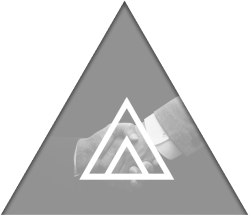
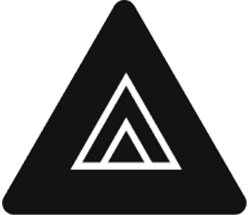
23-03-2023

diff --git a/sections/section3.jsx b/sections/section3.jsx
@@ -4,10 +4,10 @@ import Image from 'next/image';
 import { motion } from 'framer-motion';
 import { fadeIn, staggerContainer } from '../utils/motion';
 
-import section3_Origin from '../assets/section3/section3_Origin.png';
-import section3_Origin2 from '../assets/section3/section3_Origin2.png';
 import { exploreSlide } from '@/constants';
 import { FaChevronLeft, FaChevronRight } from 'react-icons/fa';
+
+import bg_slide from '../public/bg_slide.png';
 
 function section3() {
   const [slideNumber, setSlideNumber] = useState(0);
@@ -44,41 +44,38 @@ function section3() {
         initial="hidden"
         whileInView="show"
         viewport={{ once: false, amount: 0.25 }}
-        className="container mx-auto h-full w-full py-24 px-8 overflow-hidden"
+        className="container mx-auto h-full w-full py-24 px-8 overflow-hidden relative"
       >
         {/*       left side title img */}
-        <div className="w-full h-full top-0 flex flex-col xl:flex-row xl:justify-start xl:items-end justify-start items-center border-2">
-          {/* <motion.div
-            variants={fadeIn('right', 'tween', 0.1, 0.5)}
-            className="hidden xl:block  flex-initial lg:order-1"
-          >
-            <Image
-              src={section3_Origin}
-              alt=""
-              priority
-              quality={70}
-              className="w-[0%] xl:w-[80%] 2xl:w-[100%]"
-            />
-          </motion.div>
-          <div className="block xl:hidden  flex-initial lg:order-first py-4">
-            <Image
-              src={section3_Origin2}
-              alt=""
-              quality={70}
-              className="w-[212px] md:w-[325px] lg:w-[500px]"
-            />
-          </div> */}
-
+        <div className="w-full h-full top-0 flex justify-between items-start  ">
+          <div className="mt-24">
+            <button onClick={handleSlideLeft}>
+              <FaChevronLeft className="w-[25px] h-[25px] lg:w-[40px] lg:h-[40px] text-white" />
+            </button>
+          </div>
           <motion.div
             variants={fadeIn('up', 'tween', 0.1, 0.5)}
-            className=" text-white order-last md:p-8 w-full xl:w-1/2 h-4/6"
+            className=" text-white w-[600px]  self-end"
           >
-            <div className=" flex flex-row w-full h-full justify-center items-center">
-              <div className="  md:m-2 md:p-2">
-                <button onClick={handleSlideLeft}>
-                  <FaChevronLeft className="w-[25px] h-[25px] lg:w-[40px] lg:h-[40px] text-gray-600" />
-                </button>
-              </div>
+            <Image
+              // src={bg_section3_01}
+              src={exploreSlide[slideNumber].imgUrl}
+              width="600"
+              height="800"
+              alt=""
+              quality={70}
+              className=" h-auto w-screen overflow-hidden"
+              priority
+            />
+          </motion.div>
+          <div className="mt-24">
+            <button onClick={handleSlideRight}>
+              <FaChevronRight className="w-[25px] h-[25px] lg:w-[40px] lg:h-[40px] text-white" />
+            </button>
+          </div>
+        </div>
+
+        {/* <div className=" flex flex-row w-full h-full justify-center items-center border-2">
               <div>
                 <h3 className="text-center xl:text-left font-bold text-lg md:text-2xl xl:text-4xl mb-2 lg:mb-6 leading-6 md:leading-10 font-syncopate">
                   {exploreSlide[slideNumber].title}
@@ -88,30 +85,21 @@ function section3() {
                   {exploreSlide[slideNumber].text}
                 </p>
               </div>
-              <div className=" md:m-2 md:p-2">
-                <button onClick={handleSlideRight}>
-                  <FaChevronRight className="w-[25px] h-[25px] lg:w-[40px] lg:h-[40px] text-gray-600" />
-                </button>
-              </div>
-            </div>
-          </motion.div>
-        </div>
+            </div> */}
         {/* end of left side title img */}
-        <motion.div
-          variants={fadeIn('left', 'tween', 0.1, 0.5)}
-          className="absolute -z-10 right-0 bottom-0"
-        >
-          <Image
-            // src={bg_section3_01}
-            src={exploreSlide[slideNumber].imgUrl}
-            width="1920"
-            height="1080"
-            alt=""
-            quality={70}
-            className=" h-auto w-screen overflow-hidden"
-            priority
-          />
-        </motion.div>
+
+        <div className="-z-10  h-full w-full absolute bottom-0 inset-x-0 bg-[url('/bg_slide.png')] bg-no-repeat bg-contain bg-bottom"></div>
+
+        <div className="absolute bottom-0 inset-x-0 mb-48 ml-20 w-[800px]">
+          <div className="text-white flex-row w-full">
+            <p className="font-thin text-base text-justify font-raleway whitespace-pre-line leading-tight w-1/2 ">
+              {exploreSlide[slideNumber].text}
+            </p>
+            <h3 className="mt-8 text-center xl:text-left font-bold text-lg md:text-2xl xl:text-4xl leading-6 md:leading-10 font-syncopate">
+              {exploreSlide[slideNumber].title}
+            </h3>
+          </div>
+        </div>
       </motion.div>
 
       {/*  end of the container part */}

diff --git a/sections/section9.jsx b/sections/section9.jsx
@@ -1,79 +1,34 @@
 'use client';
-import React, { useState } from 'react';
-import Image from 'next/image';
-
-import { motion } from 'framer-motion';
-import { fadeIn, staggerContainer } from '../utils/motion';
-
-import NFTCard from '@/components/NFTCard';
-import { exploreNFTs } from '@/constants';
-
-import section3_Origin from '../assets/section3/section3_Origin.png';
-import section3_Origin2 from '../assets/section3/section3_Origin2.png';
+import React from 'react';
+import Typewriter from 'typewriter-effect';
 
 function section9() {
-  const [active, setActive] = useState('nft-1');
-
   return (
     <section
       id="section9"
-      className="h-screen w-screen snap-start snap-always relative bg-cover bg-center bg-no-repeat overflow-hidden"
+      className=" h-screen w-screen snap-start snap-always relative bg-cover bg-center bg-no-repeat overflow-hidden"
     >
-      {/* container part */}
-      <motion.div
-        variants={staggerContainer}
-        initial="hidden"
-        whileInView="show"
-        viewport={{ once: false, amount: 0.25 }}
-        className=" container mx-auto h-full w-full py-24 px-8"
-      >
-        {/*       left side title img */}
-        <div className=" w-full h-full top-0 flex flex-col xl:flex-row xl:justify-between xl:items-end justify-center items-center gap-2 lg:gap-8">
-          <motion.div
-            variants={fadeIn('right', 'tween', 0.2, 1)}
-            className="hidden xl:block  flex-initial lg:order-1"
-          >
-            <Image
-              src={section3_Origin}
-              alt="origin"
-              unoptimized
-              quality={100}
-              className="w-[0] lg:w-[0] xl:w-[100%]"
+      <div className="absolute w-full h-screen top-0 flex flex-col p-4 justify-center items-center">
+        <div className="text-white text-center">
+          <h1 className="lg:text-9xl md:text-7xl text-4xl tracking-[0.1em] font-black">
+            Section9
+          </h1>
+          <div className="mt-8 lg:mt-16">
+            <Typewriter
+              options={{
+                strings: ['MASONS IN WEB3', 'IN TRUST WE BUILD'],
+                changeDelay: 2,
+                ChangeDeleteSpeed: 20,
+                autoStart: true,
+                loop: true,
+                wrapperClassName:
+                  'text-2xl lg:text-4xl  tracking-[0.2em] font-semibold',
+                cursorClassName: 'text-2xl lg:text-4xl  tracking-[0.2em]',
+              }}
             />
-          </motion.div>
-          <div className="block xl:hidden  flex-initial lg:order-1 mt-[100px]">
-            <Image
-              src={section3_Origin2}
-              alt="origin"
-              unoptimized
-              quality={100}
-              className="w-[213px] lg:w-[325px] xl:w-[649px]"
-            />
-          </div>
-
-          <div className=" flex-1 order-2">
-            <motion.div
-              variants={staggerContainer}
-              initial="hidden"
-              whileInView="show"
-              viewport={{ once: false, amount: 0.25 }}
-              className="w-full min-w-[350px] md:min-w-[500px] lg:max-w-[1200px]  xl:max-w-[1280px] mx-auto flex flex-col"
-            >
-              <div className="nt-[50px] flex lg:flex-row flex-col min-h-[60vh] gap-1">
-                {exploreNFTs.map((nft, index) => (
-                  <NFTCard
-                    key={nft.id}
-                    {...nft}
-                    index={index}
-                    active={active}
-                    handleClick={setActive}
-                  />
-                ))}
-              </div>
-            </motion.div>
           </div>
         </div>
-      </motion.div>
+      </div>
     </section>
   );
 }

diff --git a/constants/index.js b/constants/index.js
@@ -34,7 +34,7 @@ export const exploreNFTs = [
 export const exploreSlide = [
   {
     id: 'slide-0',
-    imgUrl: '/slide00.png',
+    imgUrl: '/slide01.png',
     title: 'The ORIGIN of IIImasons',
     text: `Behind the facade of Web3 lies a digital wild west where desires have been ruthlessly bred, and the greedy seek to manipulate and abuse the technology.    
 
@@ -53,7 +53,7 @@ export const exploreSlide = [
   },
   {
     id: 'slide-2',
-    imgUrl: '/slide02.png',
+    imgUrl: '/slide01.png',
     title: 'Bitcoin or Pizza',
     text: `A miner carrying a heavy bag of 10,000 Bitcoins slips and drops his bag into a lake. Heartbroken, he watches as a fairy appears and presents two options - a bag of Bitcoin or gold and silver pizzas - both retrieved from the water. Without hesitation, he chooses the bag of Bitcoin over the pizzas.
     
@@ -61,19 +61,19 @@ export const exploreSlide = [
   },
   {
     id: 'slide-3',
-    imgUrl: '/slide03.png',
+    imgUrl: '/slide01.png',
     title: 'X Thunder',
     text: 'In the world of Web3, SBF was once revered as a god. However, he betrayed the trust of the people and caused a thunderstorm that left the Web3 community in chaos. Amidst the turmoil, a hero of Web3 emerged, catching the thunder in his hands and hurling it back at Zeus, defeating him.',
   },
   {
     id: 'slide-4',
-    imgUrl: '/slide04.png',
+    imgUrl: '/slide01.png',
     title: 'Pied Piper E',
     text: `The Pied Piper, Elon, used his magic flute to control dogs, leading them to their deaths. However, an earless wolf appeared in the pack and bit off the ears of the other dogs, breaking the spell and freeing them from the control of the piper. The liberated dogs regained their sanity and broke away from the pack, each finding their own path.`,
   },
   {
     id: 'slide-5',
-    imgUrl: '/slide05.png',
+    imgUrl: '/slide01.png',
     title: `The Philosopher's Stone`,
     text: `The Philosopher's Stone is the ultimate goal of all alchemists, representing the pinnacle of their craft.
     

diff --git a/sections/section4.jsx b/sections/section4.jsx
@@ -37,11 +37,11 @@ function section4() {
           <div className="text-black text-center">
             <motion.h1
               variants={textVariant(0.2)}
-              className="2xl:text-5xl xl:text-4xl  lg:text-3xl md:text-xl text-2xl tracking-[0.1em] font-black font-syncopate"
+              className="2xl:text-5xl xl:text-4xl  lg:text-3xl md:text-xl text-2xl tracking-[0.1em] font-black font-syncopate my-4"
             >
               THE IIIMASONS PRINCIPLES
             </motion.h1>
-            <hr className="w-24 h-px mx-auto  border-0 bg-gray-700 my-8 rounded "></hr>
+            <hr className="w-24 h-px mx-auto  border-0 bg-gray-700 my-4 rounded "></hr>
             <motion.p
               variants={textVariant(0.5)}
               className="md:text-lg text-base tracking-[0.1em] font-thin font-syncopate"
@@ -52,7 +52,7 @@ function section4() {
 
           <motion.div
             variants={fadeIn('right', 'tween', 0.1, 0.5)}
-            className=" w-[360px] md:w-[510px] lg:w-[510px] xl:w-[700px] h-[350px] md:h-[550px] mt-16 grid grid-rows-3 justify-center justify-items-center items-center content-center relative"
+            className=" w-[360px] md:w-[510px] lg:w-[510px] xl:w-[630px] h-[350px] md:h-[550px] mt-8 grid grid-rows-3 justify-center justify-items-center items-center content-center relative"
           >
             <div className="h-full w-full">
               {/* ROW 1 */}
@@ -196,7 +196,7 @@ function section4() {
         {/* end of left side title img */}
       </motion.div>{' '}
       {/*  end of the container part */}
-      <div className="w-screen h-[90%] bg-white -z-20 absolute inset-x-0 bottom-0 rounded-t-[4rem] absolute"></div>
+      <div className="w-screen h-[80%] md:h-[90%] bg-white -z-20 absolute inset-x-0 bottom-0 rounded-t-[4rem]"></div>
     </section>
   );
 }

diff --git a/app/bible/page.jsx b/app/bible/page.jsx
@@ -1,19 +1,35 @@
-import React from 'react'
-import Section9 from "@/sections/section9";
-import Section10 from "@/sections/section10";
+'use client';
+import React from 'react';
+import Section9 from '@/sections/section9';
+import Section10 from '@/sections/section10';
+
+import Navbar from '@/components/Navbar';
+import { useInView } from 'react-intersection-observer';
 
 export const metadata = {
-    title: 'biblePage',
-    description: 'this is biblePage',
-}
+  title: 'biblePage',
+  description: 'this is biblePage',
+};
 
 function biblePage() {
-    return (
-        <main className="overflow-hidden h-screen w-screen overflow-y-scroll snap-y snap-mandatory scroll-smooth">
-            <Section9 />
-            <Section10 />
-        </main>
-    );
+  const [section9Ref, section9InView] = useInView({ threshold: 0.5 });
+  const [section10Ref, section10InView] = useInView({ threshold: 0.5 });
+  return (
+    <>
+      <Navbar
+        textColor={section9InView ? 'white' : 'white'}
+        bgColor={section9InView ? 'transparent' : 'transparent'}
+      />
+      <main className="overflow-hidden h-screen w-screen overflow-y-scroll snap-y snap-mandatory scroll-smooth">
+        <section ref={section9Ref}>
+          <Section9 />
+        </section>
+        <section ref={section10Ref}>
+          <Section10 />
+        </section>
+      </main>
+    </>
+  );
 }
 
-export default biblePage
+export default biblePage;

diff --git a/sections/section6.jsx b/sections/section6.jsx
@@ -4,14 +4,14 @@ import Image from 'next/image';
 import { motion } from 'framer-motion';
 import { staggerContainer, textVariant } from '../utils/motion';
 
-import section6_title from '../assets/section6/section6_title.png';
-import section6_polygon from '../assets/section6/section6_polygon.png';
+import bg_section6 from '../assets/section6/bg_section6.png';
 
 function section6() {
   return (
     <section
       id="section6"
-      className="h-screen w-screen snap-start snap-always relative bg-cover bg-center bg-no-repeat overflow-hidden bg-white"
+      className="h-screen w-screen snap-start snap-always relative bg-cover bg-center bg-no-repeat overflow-hidden"
+      style={{ backgroundImage: `url(${bg_section6.src})` }}
     >
       <motion.div
         variants={staggerContainer}

diff --git a/sections/section5.jsx b/sections/section5.jsx
@@ -22,7 +22,7 @@ function section5() {
         className="container mx-auto h-full w-full py-24 px-8"
       >
         {/*       left side title img */}
-        <div className="w-full h-full top-0 flex flex-col xl:flex-row  sm:justify-start md:justify-around xl:justify-between  items-center border-2">
+        <div className="w-full h-full top-0 flex flex-col xl:flex-row  sm:justify-start md:justify-around xl:justify-between  items-center ">
           <motion.div
             variants={fadeIn('left', 'tween', 0.2, 1)}
             className="relative text-justify text-white w-full xl:w-3/6 p-8 "

diff --git a/app/page.js b/app/page.js
@@ -16,7 +16,7 @@ export default function Home() {
     <>
       <Navbar
         textColor={section2InView ? 'black' : 'white'}
-        bgColor={section2InView ? 'white' : 'black'}
+        bgColor={section2InView ? 'transparent' : 'transparent'}
       />
       <main className="overflow-hidden h-screen w-screen overflow-y-scroll snap-y snap-mandatory scroll-smooth">
         <section ref={section1Ref}>

diff --git a/app/about/page.jsx b/app/about/page.jsx
@@ -18,7 +18,7 @@ function aboutPage() {
     <>
       <Navbar
         textColor={section6InView ? 'black' : 'white'}
-        bgColor={section6InView ? 'white' : 'black'}
+        bgColor={section6InView ? 'transparent' : 'transparent'}
       />
       <main className="overflow-hidden h-screen w-screen overflow-y-scroll snap-y snap-mandatory scroll-smooth">
         <section ref={section5Ref}>
